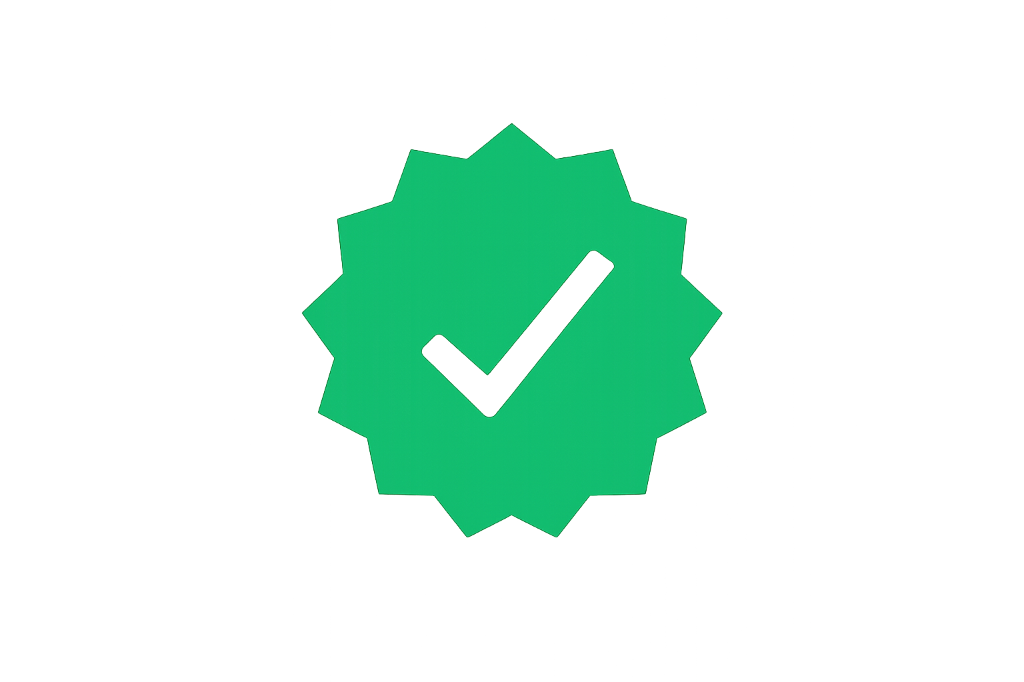
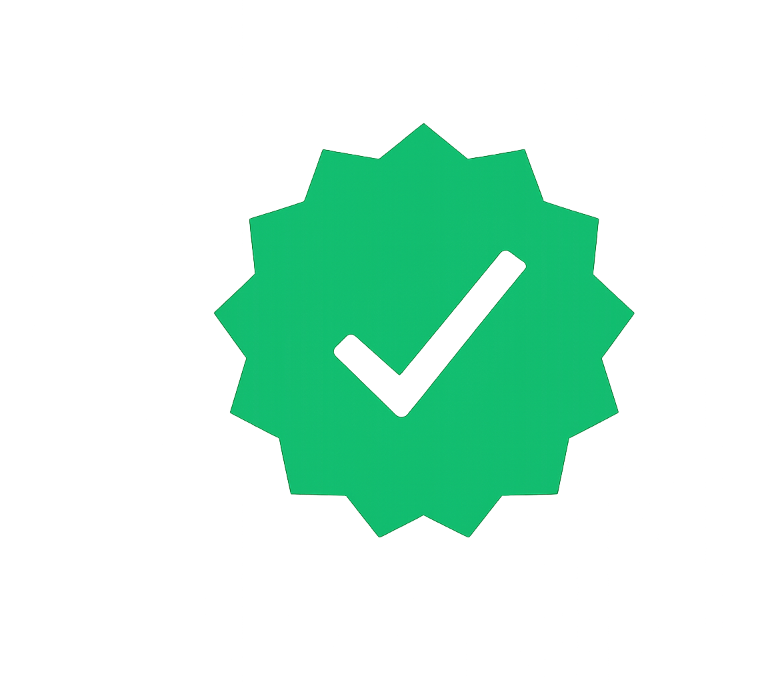
Update project files

diff --git a/src/app/join/page.tsx b/src/app/join/page.tsx
@@ -1,48 +1,61 @@
 "use client";
 
-import { useState, useEffect } from "react";
+import { useState, useEffect, useRef } from "react";
 import { Navbar } from "@/components/Navbar";
 import { Footer } from "@/components/Footer";
 import { LogoFieldBackground } from "@/components/LogoFieldBackground";
-import { motion, AnimatePresence } from "framer-motion";
+import { motion, AnimatePresence, useInView } from "framer-motion";
 import { CheckCircle2, Loader2, Users, Eye, GraduationCap, Award } from "lucide-react";
 
-function Digit({ digit, blurAmount }: { digit: string; blurAmount: number }) {
+function OdometerDigit({ digit, delay }: { digit: string; delay: number }) {
   const isNumber = !isNaN(Number(digit));
-  
+  const ref = useRef(null);
+  const isInView = useInView(ref, { once: true });
+  const [hasAnimated, setHasAnimated] = useState(false);
+
+  useEffect(() => {
+    if (isInView) {
+      setHasAnimated(true);
+    }
+  }, [isInView]);
+
   if (digit === " ") {
-    return <span className="inline-block w-[0.6em] h-[1.25em]" />;
+    return <span className="inline-block w-[0.6em] h-[1.2em]" />;
   }
 
   if (!isNumber) {
     return (
-      <span 
-        className="inline-block font-mono text-center w-[0.6em] h-[1.25em] align-middle"
-        style={{ 
-          filter: blurAmount > 0.05 ? `blur(${blurAmount}px)` : "none",
-          transition: blurAmount === 0 ? "filter 0.2s ease-out" : "none"
-        }}
-      >
+      <span className="inline-block font-mono text-center w-[0.6em] h-[1.2em] align-middle">
         {digit}
       </span>
     );
   }
 
   const num = Number(digit);
+  
+  // We will create a list of digits: 3 cycles of 0-9 to make it spin
+  const cycles = 3;
+  const digitList = Array.from({ length: cycles * 10 }, (_, i) => i % 10);
+  
+  // The final position is in the last cycle: (cycles - 1) * 10 + num
+  const finalIndex = (cycles - 1) * 10 + num;
 
   return (
-    <span className="relative inline-block h-[1.25em] overflow-hidden w-[0.6em] align-middle">
+    <span ref={ref} className="relative inline-block h-[1.2em] overflow-hidden w-[0.6em] align-middle">
       <motion.span
-        animate={{ y: -num * 1.25 + "em" }}
-        transition={{ type: "spring", stiffness: 100, damping: 15, mass: 0.8 }}
-        className="flex flex-col absolute left-0 top-0 w-full"
-        style={{ 
-          filter: blurAmount > 0.05 ? `blur(${blurAmount}px)` : "none",
-          transition: blurAmount === 0 ? "filter 0.2s ease-out" : "none"
+        initial={{ y: "0em", filter: "blur(0px)" }}
+        animate={hasAnimated ? {
+          y: -finalIndex * 1.2 + "em",
+          filter: ["blur(0px)", "blur(2.5px)", "blur(0px)"]
+        } : {}}
+        transition={{
+          y: { duration: 1.8, delay, ease: [0.16, 1, 0.3, 1] }, // custom ease-out
+          filter: { duration: 1.8, delay, ease: "easeInOut" }
         }}
+        className="flex flex-col absolute left-0 top-0 w-full"
       >
-        {[0, 1, 2, 3, 4, 5, 6, 7, 8, 9].map((n) => (
-          <span key={n} className="h-[1.25em] flex items-center justify-center select-none font-mono">
+        {digitList.map((n, idx) => (
+          <span key={idx} className="h-[1.2em] flex items-center justify-center select-none font-mono">
             {n}
           </span>
         ))}
@@ -51,56 +64,19 @@ function Digit({ digit, blurAmount }: { digit: string; blurAmount: number }) {
   );
 }
 
-// CountUp component using requestAnimationFrame for smooth animations with motion blur and rolling digits
-function CountUp({ end, duration = 2.0, suffix = "", delay = 0 }: { end: number; duration?: number; suffix?: string; delay?: number }) {
-  const [count, setCount] = useState(0);
-  const [blur, setBlur] = useState(0);
-
-  useEffect(() => {
-    let animationFrameId: number;
-    let startTimestamp: number | null = null;
-
-    const timer = setTimeout(() => {
-      const step = (timestamp: number) => {
-        if (!startTimestamp) startTimestamp = timestamp;
-        const elapsed = timestamp - startTimestamp;
-        const progress = Math.min(elapsed / (duration * 1000), 1);
-        
-        // Quartic ease-out for smoother deceleration
-        const eased = 1 - Math.pow(1 - progress, 4);
-        
-        setCount(Math.floor(eased * end));
-        
-        // Blur is proportional to the velocity (rate of change)
-        const velocity = 4 * Math.pow(1 - progress, 3);
-        const maxBlur = 3.5; // Max blur in pixels
-        setBlur(velocity * (maxBlur / 4));
-
-        if (progress < 1) {
-          animationFrameId = window.requestAnimationFrame(step);
-        } else {
-          setBlur(0);
-        }
-      };
-      animationFrameId = window.requestAnimationFrame(step);
-    }, delay * 1000);
-
-    return () => {
-      clearTimeout(timer);
-      if (animationFrameId) {
-        window.cancelAnimationFrame(animationFrameId);
-      }
-    };
-  }, [end, duration, delay]);
-
-  const endStr = end.toLocaleString();
-  const countStr = count.toLocaleString().padStart(endStr.length, " ");
-  const digits = countStr.split("");
+// CountUp component using high-performance hardware-accelerated odometer roll-up
+function CountUp({ end, suffix = "", delay = 0 }: { end: number; duration?: number; suffix?: string; delay?: number }) {
+  const valueStr = end.toLocaleString();
+  const digits = valueStr.split("");
 
   return (
     <span className="inline-flex items-center">
-      {digits.map((char, index) => (
-        <Digit key={index} digit={char} blurAmount={blur} />
+      {digits.map((char, idx) => (
+        <OdometerDigit 
+          key={idx} 
+          digit={char} 
+          delay={delay + (idx * 0.06)} // Stagger delay from left to right
+        />
       ))}
       <span className="ml-0.5">{suffix}</span>
     </span>
@@ -290,7 +266,7 @@ export default function JoinPage() {
             {/* Why People Should Join Cards */}
             <motion.div variants={itemVariants} className="liquid-glass border border-white/10 rounded-[28px] p-8 space-y-6 flex-grow flex flex-col justify-center">
               <h3 className="font-manrope font-extrabold text-white text-xs tracking-widest uppercase flex items-center gap-2 mb-2">
-                <Award className="w-4 h-4 text-cyan-400 animate-pulse" />
+                <Award className="w-4 h-4 text-cyan-400" />
                 Why Join AP Lab?
               </h3>
 

diff --git a/src/components/HeroSection.tsx b/src/components/HeroSection.tsx
@@ -467,16 +467,17 @@ export function HeroSection() {
         {/* Subtitle formatted like Apple Music's subtext */}
         <p className="font-inter font-medium text-[16px] md:text-[20px] text-white/80 max-w-[820px] mb-12 text-center leading-relaxed text-balance px-4 select-none">
           Over 30 subjects, always free. The highest prep quality with immersive interactive labs and comprehensive exams. Access to exclusive content, including tutor interviews and live diagnostics. This is everything learning was meant to be.{" "}
-          <span className="relative inline-flex items-center gap-1.5 group cursor-pointer whitespace-nowrap">
+          <span className="relative inline-block group cursor-pointer whitespace-nowrap align-middle">
             <strong className="font-extrabold text-medical-teal animate-free-badge">100% Free</strong>
             <img 
               src="/images/verified-badge.png" 
               alt="Verified Badge" 
-              className="w-[21px] h-[21px] object-contain select-none transition-transform duration-300 group-hover:scale-110 drop-shadow-[0_0_6px_rgba(32,201,151,0.3)]" 
+              className="inline-block w-[24px] h-[24px] ml-1.5 align-middle select-none transition-transform duration-300 group-hover:scale-110 drop-shadow-[0_0_6px_rgba(32,201,151,0.3)]" 
             />
+            .
             
             {/* Tooltip bubble */}
-            <span className="absolute bottom-full left-1/2 -translate-x-1/2 mb-3 w-64 px-4 py-3 bg-[#0a0a0f]/90 backdrop-blur-xl rounded-[16px] text-center shadow-[0_12px_32px_rgba(0,0,0,0.85)] opacity-0 pointer-events-none group-hover:opacity-100 group-hover:pointer-events-auto transition-all duration-300 translate-y-2 group-hover:translate-y-0 z-50 whitespace-normal liquid-glass-outline">
+            <span className="absolute bottom-full left-1/2 -translate-x-1/2 mb-3.5 w-64 px-4 py-3 bg-[#0a0a0f]/90 backdrop-blur-xl rounded-[16px] text-center shadow-[0_12px_32px_rgba(0,0,0,0.85)] opacity-0 pointer-events-none group-hover:opacity-100 group-hover:pointer-events-auto transition-all duration-300 translate-y-2 group-hover:translate-y-0 z-50 whitespace-normal liquid-glass-outline">
               <span className="block font-sans text-xs font-semibold text-white/90 leading-relaxed">
                 We are committed to permanently keeping the website free for all with no paywalls or subscriptions.
               </span>
@@ -484,7 +485,6 @@ export function HeroSection() {
               <span className="absolute top-full left-1/2 -translate-x-1/2 border-[6px] border-transparent border-t-[#0a0a0f]/90" />
             </span>
           </span>
-          .
         </p>
 
         {/* Call to Action Buttons */}